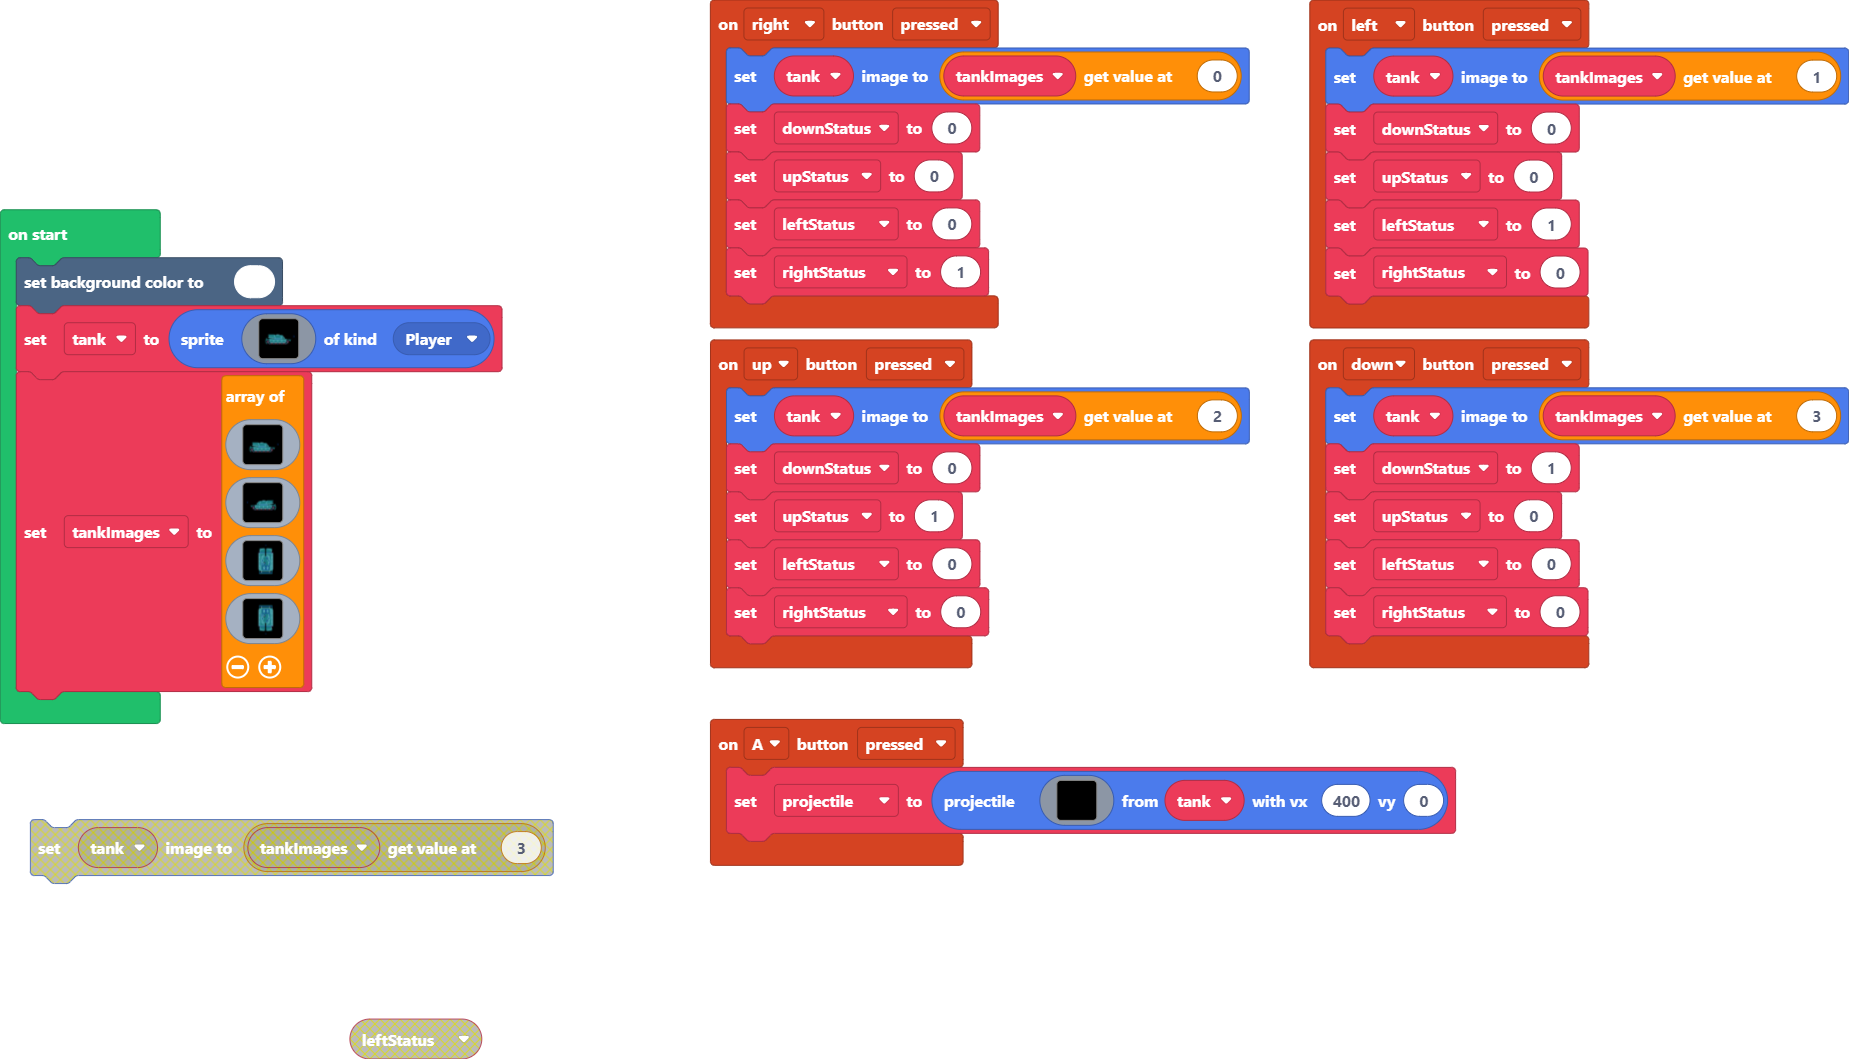
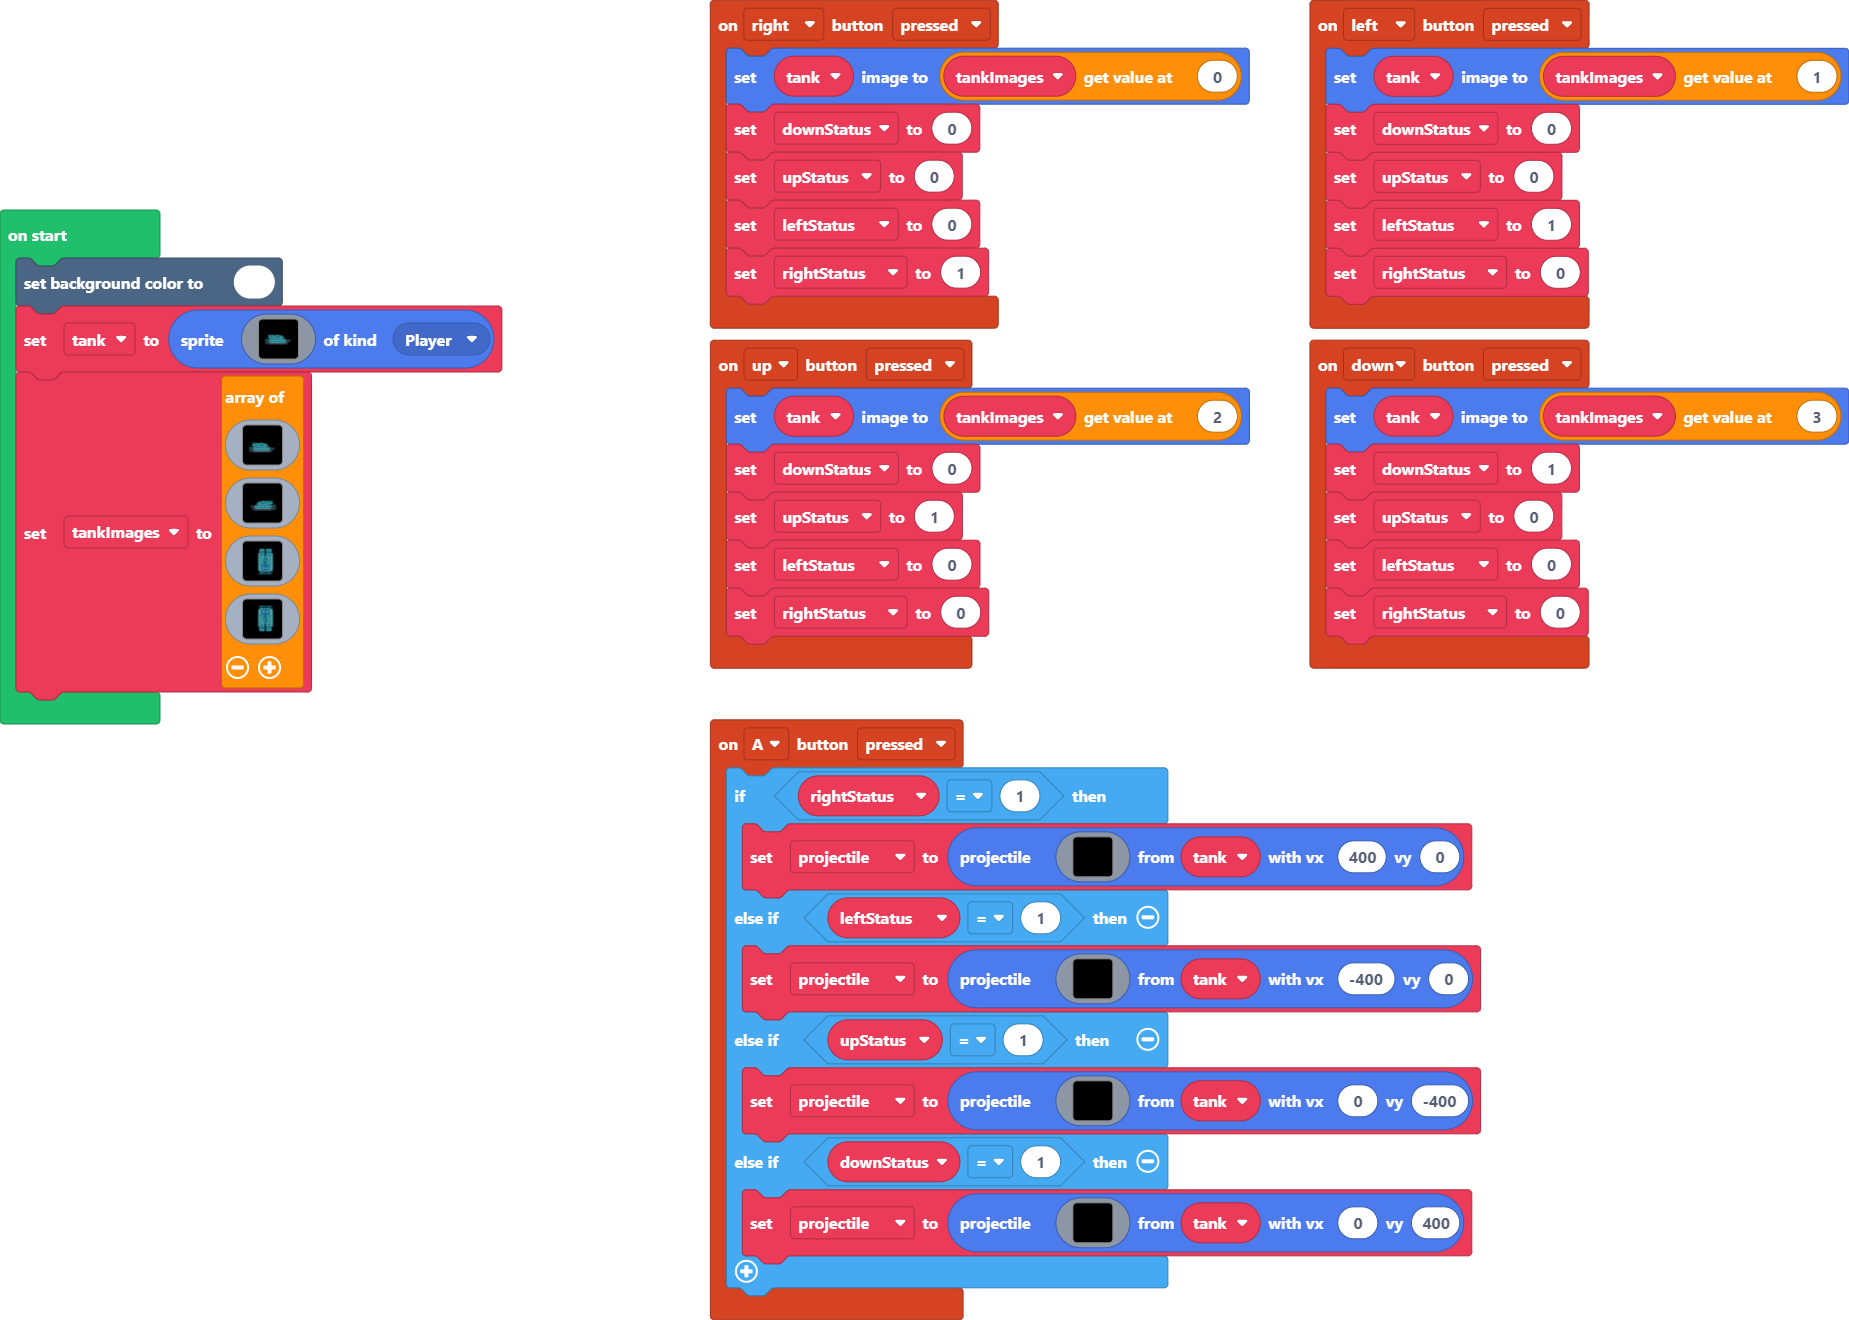
Update main.blocks, main.ts

diff --git a/main.ts b/main.ts
@@ -6,24 +6,83 @@ controller.up.onEvent(ControllerButtonEvent.Pressed, function () {
     rightStatus = 0
 })
 controller.A.onEvent(ControllerButtonEvent.Pressed, function () {
-    projectile = sprites.createProjectileFromSprite(img`
-        ................................................................
-        ................................................................
-        ................................................................
-        ................................................................
-        .....................................fffff......................
-        ................................................................
-        ................................................................
-        ................................................................
-        ................................................................
-        ................................................................
-        ................................................................
-        ................................................................
-        ................................................................
-        ................................................................
-        ................................................................
-        ................................................................
-        `, tank, 400, 0)
+    if (rightStatus == 1) {
+        projectile = sprites.createProjectileFromSprite(img`
+            ................................................................
+            ................................................................
+            ................................................................
+            ................................................................
+            ................................................................
+            ................................................................
+            ................................................................
+            ................................................................
+            .....................................fffff......................
+            ................................................................
+            ................................................................
+            ................................................................
+            ................................................................
+            ................................................................
+            ................................................................
+            ................................................................
+            `, tank, 400, 0)
+    } else if (leftStatus == 1) {
+        projectile = sprites.createProjectileFromSprite(img`
+            ................................................................
+            ................................................................
+            ................................................................
+            ................................................................
+            ................................................................
+            ................................................................
+            ................................................................
+            ................................................................
+            ....ffff........................................................
+            ................................................................
+            ................................................................
+            ................................................................
+            ................................................................
+            ................................................................
+            ................................................................
+            ................................................................
+            `, tank, -400, 0)
+    } else if (upStatus == 1) {
+        projectile = sprites.createProjectileFromSprite(img`
+            ......................................f.........................
+            ......................................f.........................
+            ......................................f.........................
+            ......................................f.........................
+            ................................................................
+            ................................................................
+            ................................................................
+            ................................................................
+            ................................................................
+            ................................................................
+            ................................................................
+            ................................................................
+            ................................................................
+            ................................................................
+            ................................................................
+            ................................................................
+            `, tank, 0, -400)
+    } else if (downStatus == 1) {
+        projectile = sprites.createProjectileFromSprite(img`
+            ................................................................
+            ................................................................
+            ................................................................
+            ................................................................
+            ................................................................
+            ................................................................
+            ................................................................
+            ................................................................
+            ................................................................
+            ................................................................
+            ................................................................
+            ................................................................
+            ......................................f.........................
+            ......................................f.........................
+            ......................................f.........................
+            ......................................f.........................
+            `, tank, 0, 400)
+    }
 })
 controller.left.onEvent(ControllerButtonEvent.Pressed, function () {
     tank.setImage(tankImages[1])
